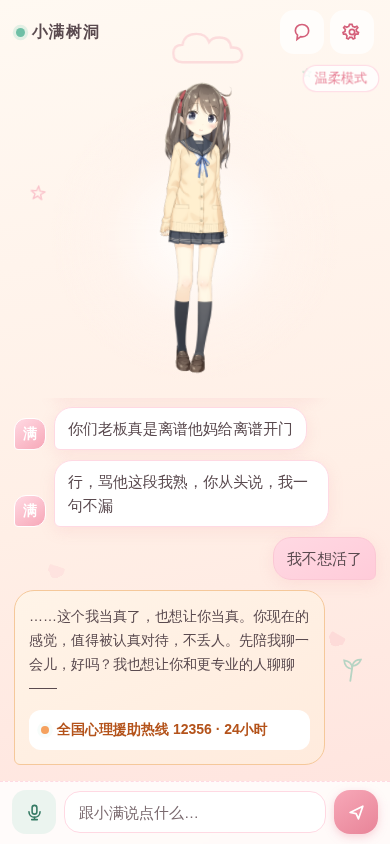
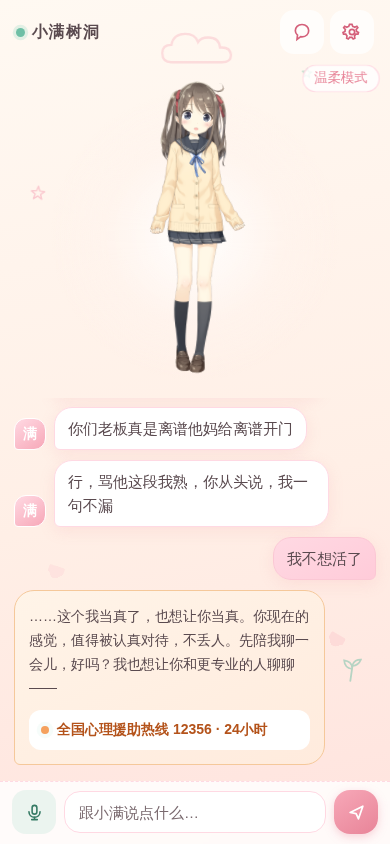
docs: DEVLOG 补录 2026-10-09 双测闭环验证（全套重跑绿+verify_tts修复确认）+截图再生成

diff --git a/docs/DEVLOG.md b/docs/DEVLOG.md
@@ -4,6 +4,27 @@
 
 ---
 
+## 2026-10-09 · 双测闭环补完 + main 同步（每小时续跑检查触发）
+
+> 22:27 续跑检查发现：今日 21:30–21:33 会话的变更**未沉淀 DEVLOG、修复后无全套重跑记录** → 按铁律「没完成就继续」补齐闭环。
+
+### 补录今日早前会话成果（当时已推 main、CI 绿，此处补记账）
+- `4de49bb` fix(test)：scripts/verify_tts.py——ASR 临时脚本移入项目内（/tmp 下 ESM 解析不到 node_modules 致回环比对**误 FAIL**）+ UI 测试重跑更新截图 07–11
+- `c8a680f` docs：新增 docs/PRODUCT_ROADMAP.md（竞品留存数据 + Replika 教训 + P0/P1/P2 可验收迭代计划）
+
+### 本轮闭环动作（全部实跑）
+- **全套测试重跑**：契约 8/8 ✅ · 生命线 UI 5/5 ✅ · E2E 5/5 ✅（TTS 实打 :8903、音频 200、记忆写入/清空、零控制台错误、无 HTTP≥400）· **verify_tts 回环 PASS——今日修复项确认生效**（mp3 21168B → ASR 转写全对 → 比对 PASS）
+- 构建冒烟 `bash -n` 8/8 OK；DSH 免费车道健康（ling-3.0 应答"在线"）
+- 本地 main 快进同步 7fd69da→c8a680f（纯落后无冲突）；dev_up/dev_down 全规程执行、端口 8901/8902/8903 已清
+
+### 遗留（挂账非欠账）
+- 10-08 那条 `[ ] OFM 2.0.0 forward 端口` 维持挂起——前置条件「host 稳定」未满足，不动。
+- 双测 cron（9:00/21:00）今日两次执行在 execd 列表无记录、/tmp 无服务痕迹；21:00 时段实际产出了上述提交（疑似该会话即双测本体但未按规程收尾/汇报）。明早 9:00 观察一次，若再无执行痕迹则查 cron 调度本身。
+
+触及：docs/DEVLOG.md（本条）、docs/shots/07–11（本轮重跑再生成，作实测证据一并提交）
+
+---
+
 ## 2026-10-08 · OFM 免费通路打通（ling-3.0 主力）+ yml 二次修复 + 全链路审查
 
 ### 免费模型通路（零 key 零费用，全部实测）
